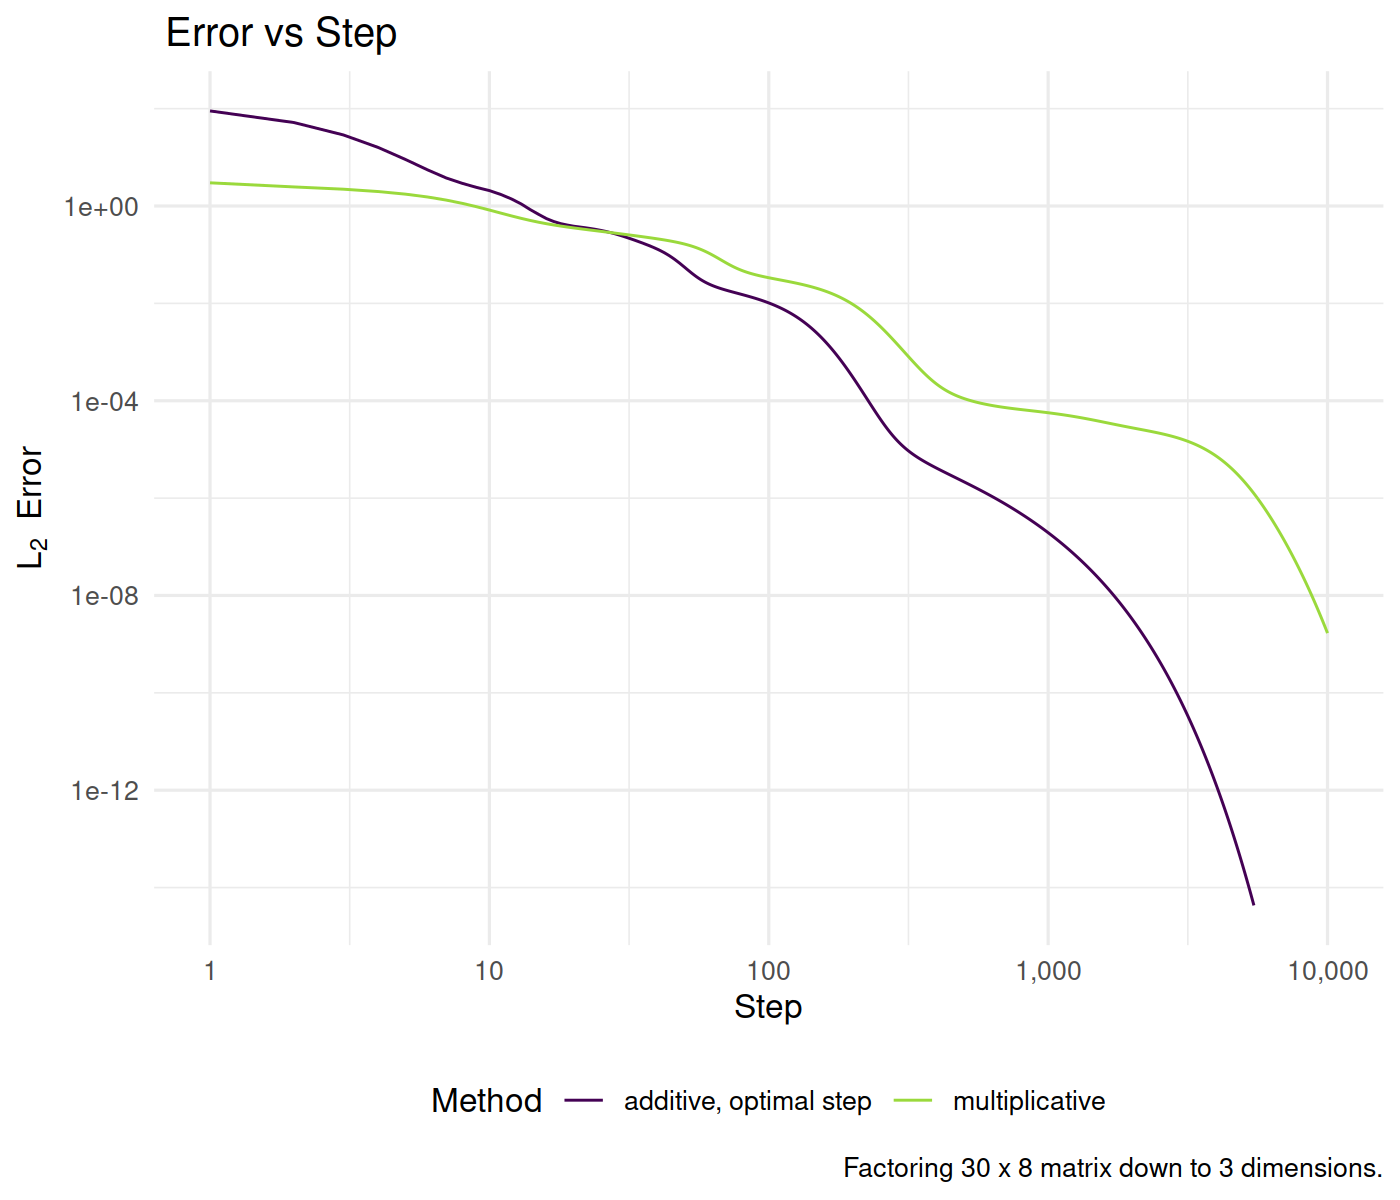
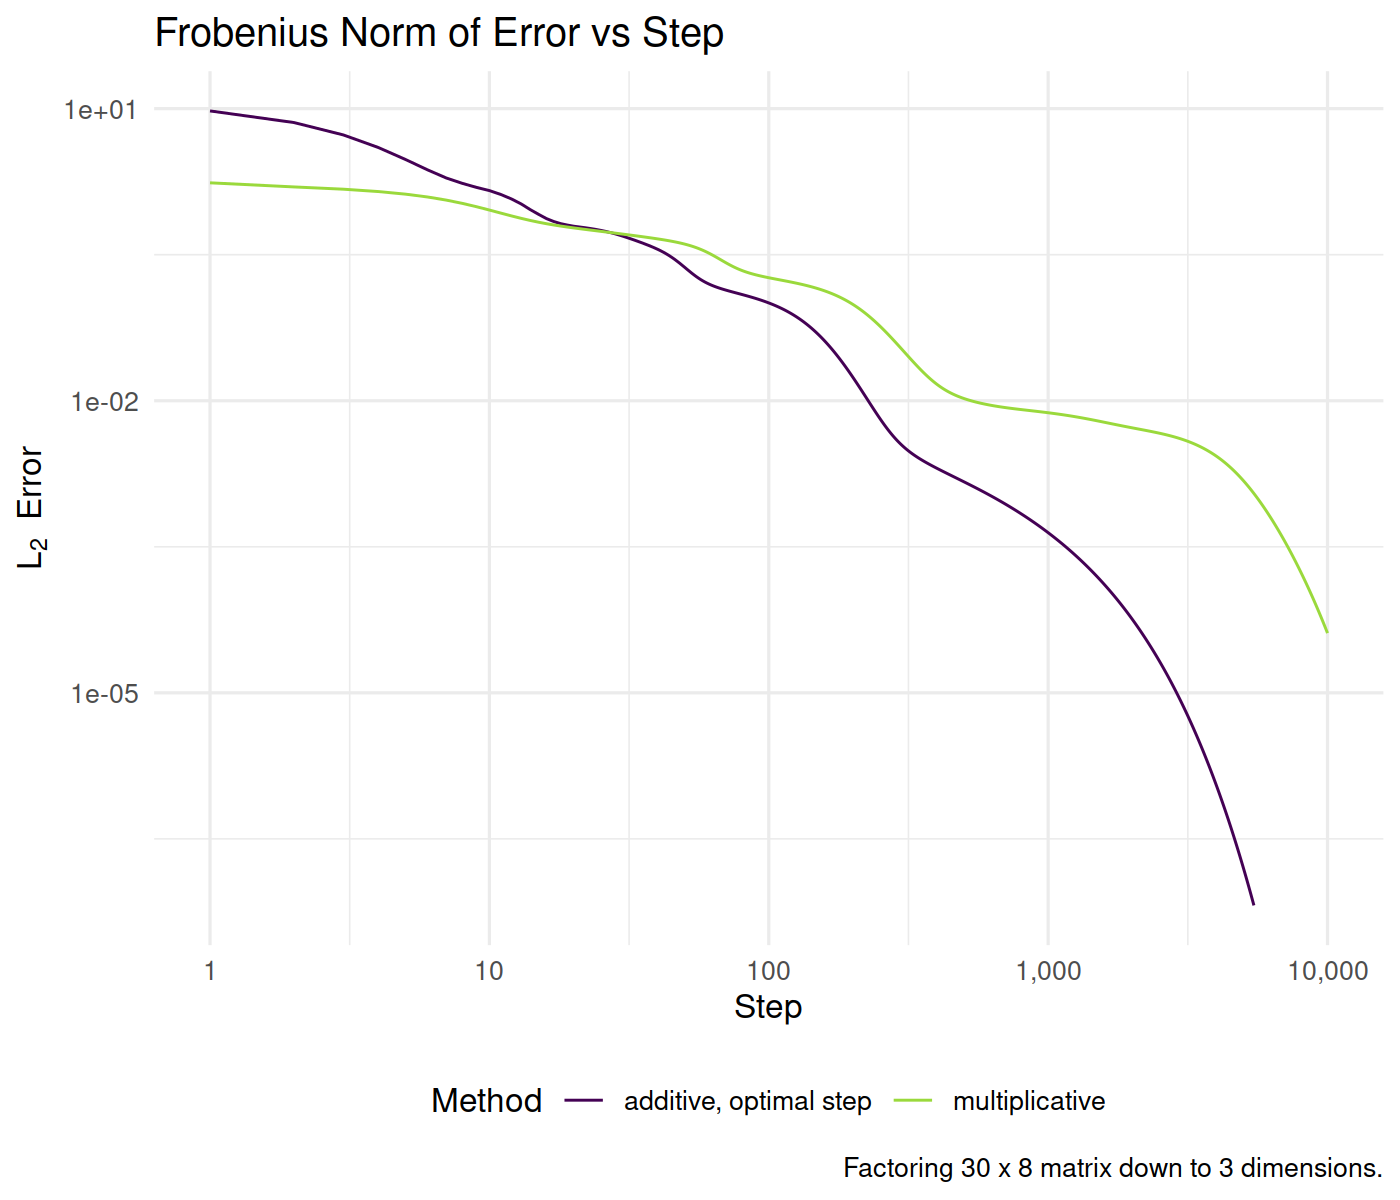
updating and rerunning README

diff --git a/README.md b/README.md
@@ -33,10 +33,9 @@ if (require(drat)) {
 
 # Basic Usage
 
-First we perform some simulations under the null to show that the p-values
-are uniform. We draw a normal vector with identity covariance and zero mean,
-then flip the sign of each element to make them positive. We then
-perform inference on the sum of the mean values. 
+We demonstrate the usage of the multiplicative and additive updates in
+factoring a small matrix which we constructed to be the product of two
+reduced rank non-negative matrices.
 
 
 ``` r
@@ -44,8 +43,8 @@ library(dplyr)
 library(rnmf)
 library(ggplot2)
 
-ferr <- function(Y, L, R) {
-    sum(abs(Y - L %*% R)^2)
+frobenius_norm_err <- function(Y, L, R) {
+    sqrt(sum(abs(Y - L %*% R)^2))
 }
 runifmat <- function(nr, nc, ...) {
     matrix(pmax(0, runif(nr * nc, ...)), nrow = nr)
@@ -54,7 +53,8 @@ test_a_bunch <- function(Y_t, L_0, R_0, niter = 10000L) {
     history <<- rep(NA_real_, niter)
     on_iteration_end <- function(iteration, Y, L, R,
         ...) {
-        history[iteration] <<- ferr(Y, L, R)
+        history[iteration] <<- frobenius_norm_err(Y,
+            L, R)
     }
     wuz <- aurnmf(Y_t, L_0, R_0, max_iterations = length(history),
         on_iteration_end = on_iteration_end)
@@ -88,9 +88,10 @@ test_a_bunch(Y_t, L_0, R_0, niter = 10000L) %>%
     ggplot(aes(x, y, color = method)) + geom_line() +
     scale_x_log10(labels = scales::comma) + scale_y_log10() +
     labs(x = "Step", y = expression(L[2] ~ ~Error),
-        title = " Error vs Step", color = "Method",
-        caption = paste0("Factoring ", nr, " x ", nc,
-            " matrix down to ", nd, " dimensions."))
+        title = "Frobenius Norm of Error vs Step",
+        color = "Method", caption = paste0("Factoring ",
+            nr, " x ", nc, " matrix down to ", nd,
+            " dimensions."))
 ```
 
 <div class="figure">
